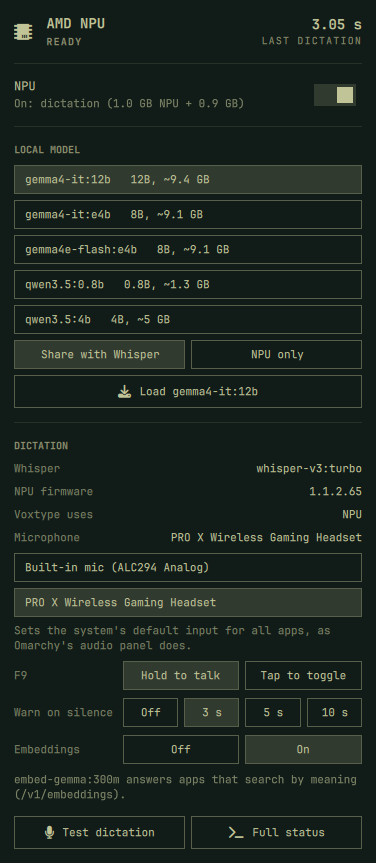
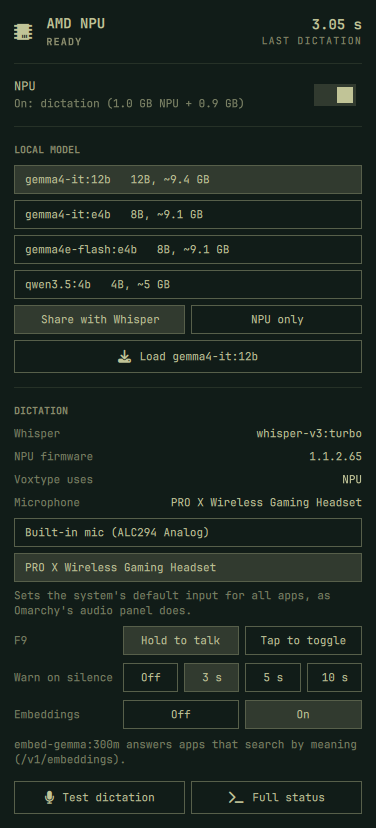
Whisper-only card shot with the current model list

diff --git a/README.md b/README.md
@@ -144,7 +144,7 @@ power panels:
 
 | Whisper only | Sharing with an LLM | LLM on the NPU alone | Released |
 |:---:|:---:|:---:|:---:|
-| <img src="docs/screenshots/card-whisper.png" width="200" alt="Card with Whisper only: NPU switch on showing what it holds, downloaded models (Gemma 4 12B and E4B, Qwen 3.5) with Share / NPU only and Load, dictation details, the microphone list, F9 mode, silence warning and the Embeddings switch"> | <img src="docs/screenshots/card-share.png" width="200" alt="Card with Gemma 4 E4B loaded next to Whisper: model details, memory, API address, Test LLM, Chat and Unload; embeddings paused"> | <img src="docs/screenshots/card-exclusive.png" width="200" alt="Card with Gemma 4 12B on the NPU alone: Share the NPU with dictation button, Voxtype on its CPU model, embeddings still paused"> | <img src="docs/screenshots/card-released.png" width="200" alt="Card with the NPU released: switch off, NPU and memory free, dictation on the CPU model, settings that need the NPU dimmed"> |
+| <img src="docs/screenshots/card-whisper.png" width="200" alt="Card with Whisper only: NPU switch on showing what it holds, downloaded models (Gemma 4 12B and E4B, Qwen 3.5 4B) with Share / NPU only and Load, dictation details, the microphone list, F9 mode, silence warning and the Embeddings switch"> | <img src="docs/screenshots/card-share.png" width="200" alt="Card with Gemma 4 E4B loaded next to Whisper: model details, memory, API address, Test LLM, Chat and Unload; embeddings paused"> | <img src="docs/screenshots/card-exclusive.png" width="200" alt="Card with Gemma 4 12B on the NPU alone: Share the NPU with dictation button, Voxtype on its CPU model, embeddings still paused"> | <img src="docs/screenshots/card-released.png" width="200" alt="Card with the NPU released: switch off, NPU and memory free, dictation on the CPU model, settings that need the NPU dimmed"> |
 
 - **Header:** READY, READY + LLM, LLM ONLY, RELEASED, LOCAL MODEL (Voxtype on its CPU model) or STOPPED, plus
   your last dictation time.
